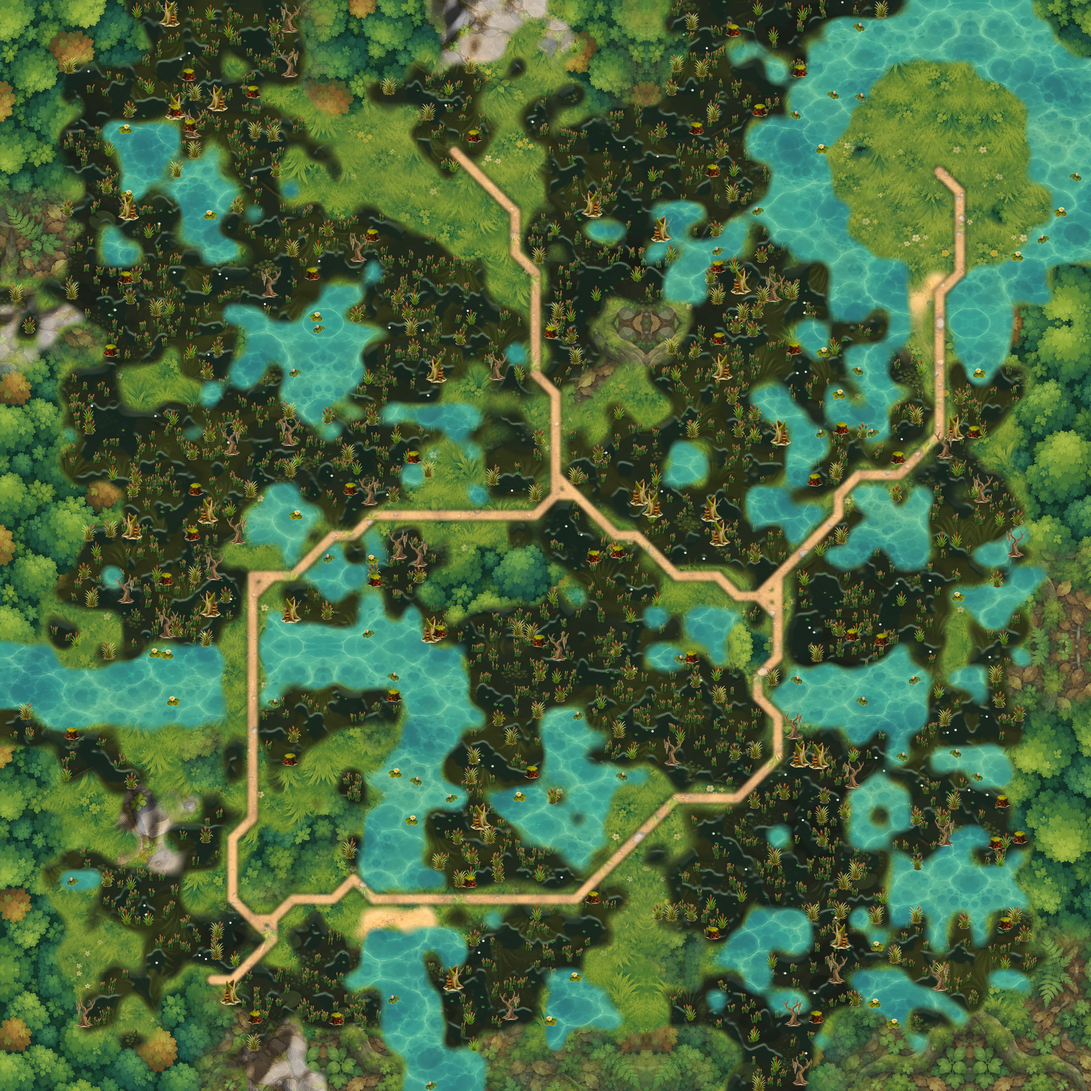
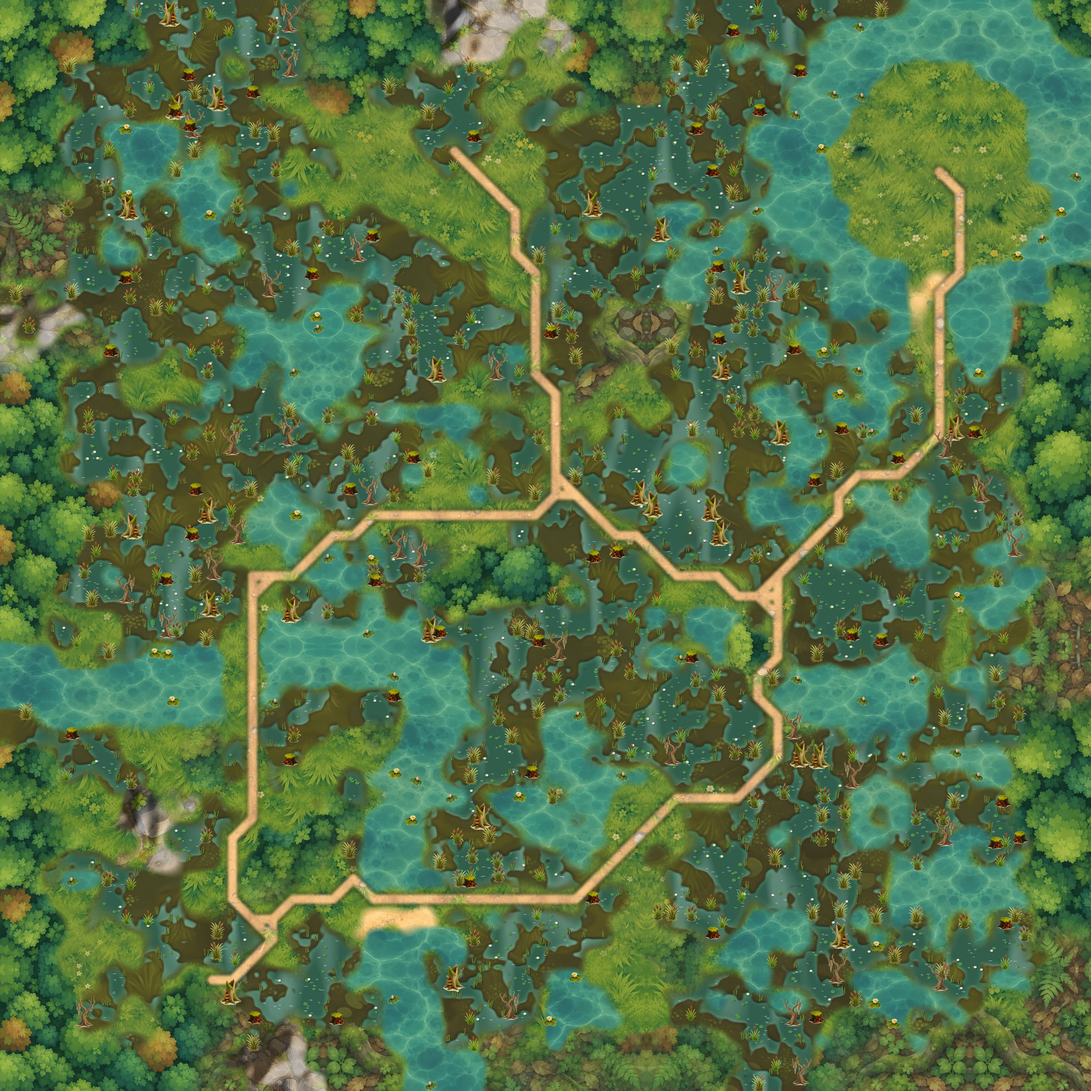
Plansze, runda 3: migawka pracy builderów (w toku)
Claude-Session: https://claude.ai/code/session_01Qu47Qn6gy3U54smkJJnCXL

diff --git a/tools/teren_efekty.py b/tools/teren_efekty.py
@@ -195,7 +195,7 @@ def trzesawisko(plansza: Image.Image, maska: Image.Image, kafel: int, ziarno: in
         dtype=np.float32,
     ) / 255.0
     n = szum(W, H, max(2, int(kafel * 0.9)), ziarno) + szum(W, H, max(2, int(kafel * 0.32)), ziarno + 5) * 0.45
-    oczka = np.clip((n + 0.02) * 6, 0, 1) * rdzen
+    oczka = np.clip((n + 0.12) * 6, 0, 1) * rdzen
     oczka_im = Image.fromarray((oczka * 255).astype(np.uint8), 'L').filter(ImageFilter.GaussianBlur(1.2))
     oczka = np.asarray(oczka_im, dtype=np.float32) / 255.0
     # Głębia oczka: rozmyta maska — środek ciemniejszy niż płycizna.
@@ -213,23 +213,31 @@ def trzesawisko(plansza: Image.Image, maska: Image.Image, kafel: int, ziarno: in
     tab = tab * (1 - M * 0.8) + grunt * M * 0.8
     # Mokre błoto przy wodzie.
     B = brzeg[..., None]
-    tab = tab * (1 - B * 0.7) + np.array([62, 48, 28]) * B * 0.7
-    # Woda: płycizna jaśniejsza i bardziej zielona, głębia ciemna.
+    tab = tab * (1 - B * 0.75) + np.array([58, 44, 26]) * B * 0.75
+    # Woda: płycizna jaśniejsza, głębia ciemniejsza — ale wciąż WODA, nie dziura.
     w = np.array(woda, dtype=np.float32)
-    plytka = w * 1.35 + np.array([8, 14, 0])
-    gleboka = w * 0.72
-    G = np.clip(glebia * 1.6, 0, 1)[..., None]
+    plytka = w * 1.18 + np.array([12, 12, 0])
+    gleboka = w * 0.8
+    G = np.clip(glebia * 1.3 - 0.15, 0, 1)[..., None]
     barwa = plytka * (1 - G) + gleboka * G
+    # Odbicie nieba: miękkie poziome smugi, jak na stojącej tafli.
+    smugi = szum(W, max(2, H // 4), max(2, int(kafel * 0.7)), ziarno + 13)
+    smugi = np.asarray(
+        Image.fromarray(((smugi * 0.5 + 0.5) * 255).astype(np.uint8), 'L').resize((W, H), Image.BICUBIC),
+        dtype=np.float32,
+    ) / 255.0
+    niebo = np.clip((smugi - 0.55) * 3, 0, 1)[..., None] * 0.35
+    barwa = barwa + (np.array([175, 210, 200]) - barwa) * niebo
     # Tekstura gruntu prześwituje przez wodę odrobinę — dno, nie farba.
-    barwa = barwa + (tab - tab.mean(axis=2, keepdims=True)) * 0.12
+    barwa = barwa + (tab - tab.mean(axis=2, keepdims=True)) * 0.1
     O = oczka[..., None]
     tab = tab * (1 - O) + barwa * O
-    # Cień skarpy przy górnym brzegu, odbicie nieba przy dolnym.
+    # Cień skarpy przy górnym brzegu, jasna linia wody przy dolnym.
     gy = np.gradient(oczka, axis=0)
-    cien = np.clip(gy * 5, 0, 1)[..., None]
-    blask = np.clip(-gy * 5, 0, 1)[..., None]
-    tab = tab * (1 - cien * 0.45)
-    tab = tab + (np.array([185, 215, 200]) - tab) * blask * 0.55
+    cien = np.clip(gy * 4, 0, 1)[..., None]
+    blask = np.clip(-gy * 4, 0, 1)[..., None]
+    tab = tab * (1 - cien * 0.35)
+    tab = tab + (np.array([150, 195, 175]) - tab) * blask * 0.3
     # Rzęsa: drobne jasnozielone plamki na płyciźnie.
     r = szum(W, H, max(2, int(kafel * 0.08)), ziarno + 11)
     rzesa = (np.clip((r - 0.55) * 4, 0, 1) * oczka * np.clip(1 - glebia * 1.8, 0, 1))[..., None]

diff --git a/tools/mapy/bagna.py b/tools/mapy/bagna.py
@@ -326,7 +326,7 @@ USTAWIENIA = {
 #: spojrzenie na ekran ma mówić „bagno", zanim dziecko zobaczy choć jedno pole
 #: trzęsawiska.
 BARWY_TERENU = {
-    'woda': {'nasycenie': 0.55, 'barwa': (80, 125, 95), 'moc': 0.65, 'jasnosc': 0.8},
+    'woda': {'nasycenie': 0.5, 'barwa': (85, 125, 90), 'moc': 0.6, 'jasnosc': 0.72},
     'trawa': {'nasycenie': 0.62, 'barwa': (140, 140, 80), 'moc': 0.5, 'jasnosc': 0.8},
     'las': {'nasycenie': 0.7, 'barwa': (90, 110, 75), 'moc': 0.4, 'jasnosc': 0.82},
     'sciezka': {'nasycenie': 0.75, 'barwa': (175, 150, 110), 'moc': 0.3, 'jasnosc': 1.08},
@@ -338,7 +338,7 @@ BARWY_TERENU = {
 EFEKTY = ['trzesawisko', 'obwodka_drogi', 'relief', 'bez_placow']
 #: Runda 3 („ciemna ziemia z trzciną, wygląda jak ciemny las"): oczka stojącej
 #: wody w barwie jezior tej planszy, mokre błoto wokół, jaśniejszy grunt.
-TRZESAWISKO = {'woda': (46, 84, 76)}
+TRZESAWISKO = {'woda': (60, 116, 98)}
 #: Błoto z dostawy (`tools/PROMPTY-PLANSZE.md`), do tego czasu zwykłe bagno.
 TEKSTURY = {'bagno': ['bloto', 'bagno']}
 

diff --git a/tools/PROMPTY-PLANSZE.md b/tools/PROMPTY-PLANSZE.md
@@ -422,3 +422,72 @@ A hunters' swamp camp: a hut on stilts with a reed-thatched roof, a round
 red-and-white sign over the door, a small flat-bottomed boat tied to one
 stilt, crates of red-and-white round capsules on the porch.
 ```
+
+## 4. Polana — zestaw klimatu `polana` (runda 3 ślepego porównania)
+
+Werdykt: „jednolity dywan trawy i lasu, bez pasma gór w kadrze". Skały
+Polany to podstawowe `kepa-skaly` — omszałe głazy rozsypane po łące, które
+z daleka czytają się jak garść drobiazgów, a nie jak góry. W Heroes 2 góra na
+łące to zielony, trawiasty masyw z brązowymi urwiskami i żlebami — ma rzeźbę
+i zamyka przejście także dla oka. Te kępy kładą się obok siebie w pasmo
+(scena stawia je co trzy pola, zachodzą na siebie o pole), więc podstawa
+każdej musi sięgać obu boków kadru.
+
+| Plik (tools/wsad/) | Trafia do | Wysokość |
+|---|---|---|
+| `polana-kepa-skaly-1..4.png` | `public/mapa/polana/kepa-skaly-N.png` | 216 px |
+| `polana-skala.png`, `polana-skala-2.png` | `public/mapa/polana/skala*.png` | 67 px |
+
+<!-- plik: polana-kepa-skaly-1.png | styl: obiekt | proporcje: 3:2 -->
+```
+A segment of a grassy mountain range in the style of Heroes of Might and
+Magic 2: two rounded green peaks covered in short meadow grass, steep
+ochre-brown rocky cliffs and deep ravines cut into the slopes, sharp ridge
+lines running down from each peak, a few tiny dark green pines in the folds.
+Sunlit green faces on the right, darker olive and brown shadowed folds on the
+left. Clearly an impassable mountain, not a pile of boulders. Wider than tall;
+the foot of the mountain spreads across the whole width of the picture so that
+pieces placed side by side join into one continuous range.
+```
+
+<!-- plik: polana-kepa-skaly-2.png | styl: obiekt | proporcje: 3:2 -->
+```
+A long grassy mountain ridge in the style of Heroes of Might and Magic 2: one
+high green crest with a saddle and a smaller second hump, brown rock showing
+through on the steep faces as vertical gullies and ledges, grass on the
+rounded tops. Strong sculpted relief: bright sunlit slopes on the right,
+deep olive-brown shadow folds on the left. Wider than tall; the foot spreads
+across the whole width of the picture.
+```
+
+<!-- plik: polana-kepa-skaly-3.png | styl: obiekt | proporcje: 3:2 -->
+```
+A rocky brown mountain massif in the style of Heroes of Might and Magic 2:
+three jagged ochre and tan sandstone peaks with grassy green shoulders and
+patches of meadow on the lower slopes, layered cliff bands, scree at the
+foot. Sunlit faces warm tan, shadowed faces deep brown. Wider than tall; the
+foot spreads across the whole width of the picture.
+```
+
+<!-- plik: polana-kepa-skaly-4.png | styl: obiekt | proporcje: 3:2 -->
+```
+A low broad green hill range in the style of Heroes of Might and Magic 2:
+three soft grassy knolls packed together with brown earth scarps and rocky
+outcrops breaking the slopes, a couple of small bushes in the hollows. Reads
+as foothills of a mountain chain, clearly impassable. Wider than tall; the
+foot spreads across the whole width of the picture.
+```
+
+<!-- plik: polana-skala.png -->
+```
+A single small grassy mountain peak in the style of Heroes of Might and Magic
+2: a green rounded top, steep brown rocky faces with one gully, sunlit on the
+right, shaded on the left. Slightly wider than tall.
+```
+
+<!-- plik: polana-skala-2.png -->
+```
+A small rugged rocky crag in the style of Heroes of Might and Magic 2: two
+tan-brown sandstone spires with tufts of grass on the ledges, scree at the
+foot, sunlit on the right. Slightly wider than tall.
+```
